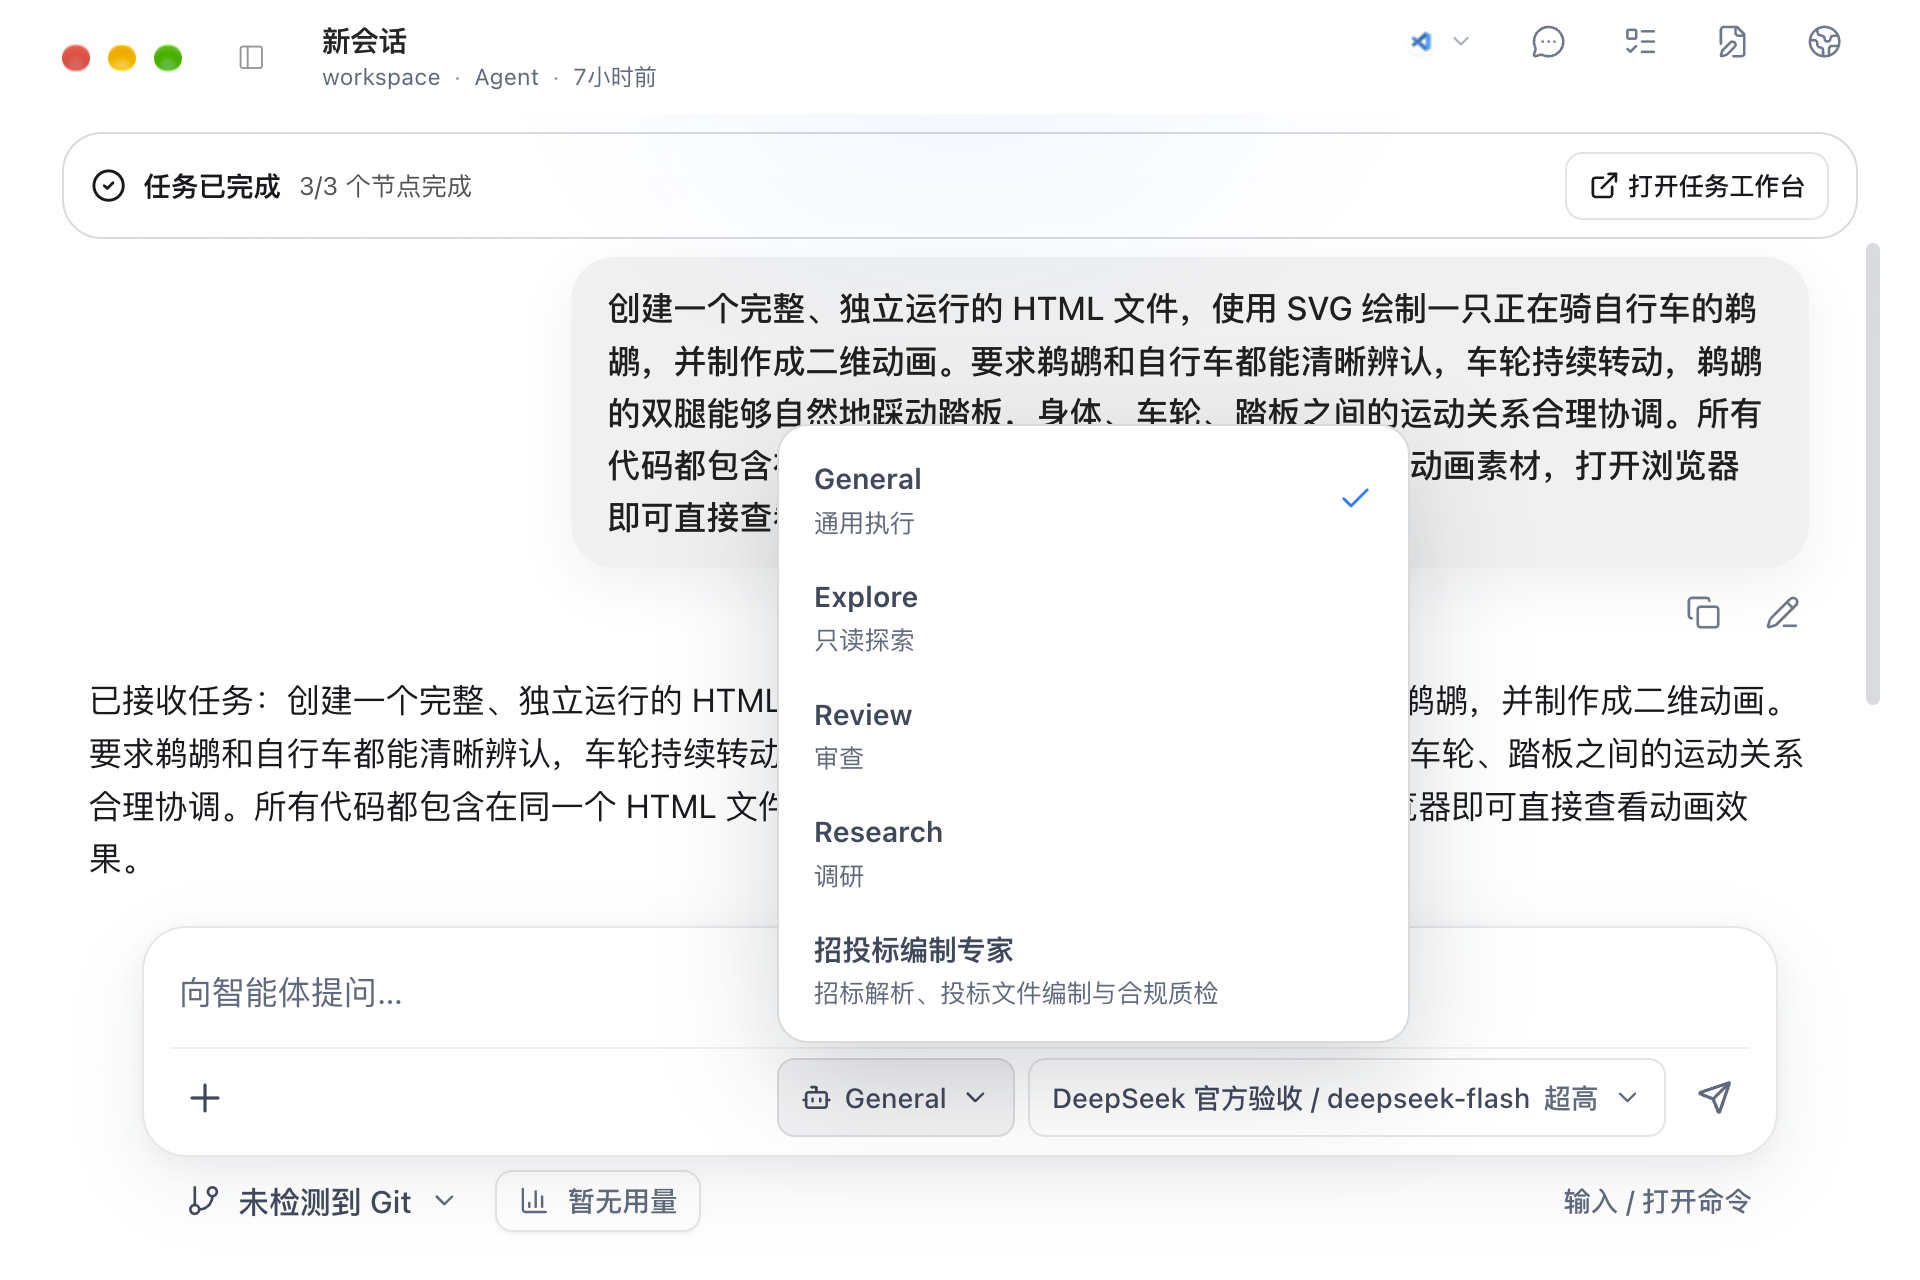
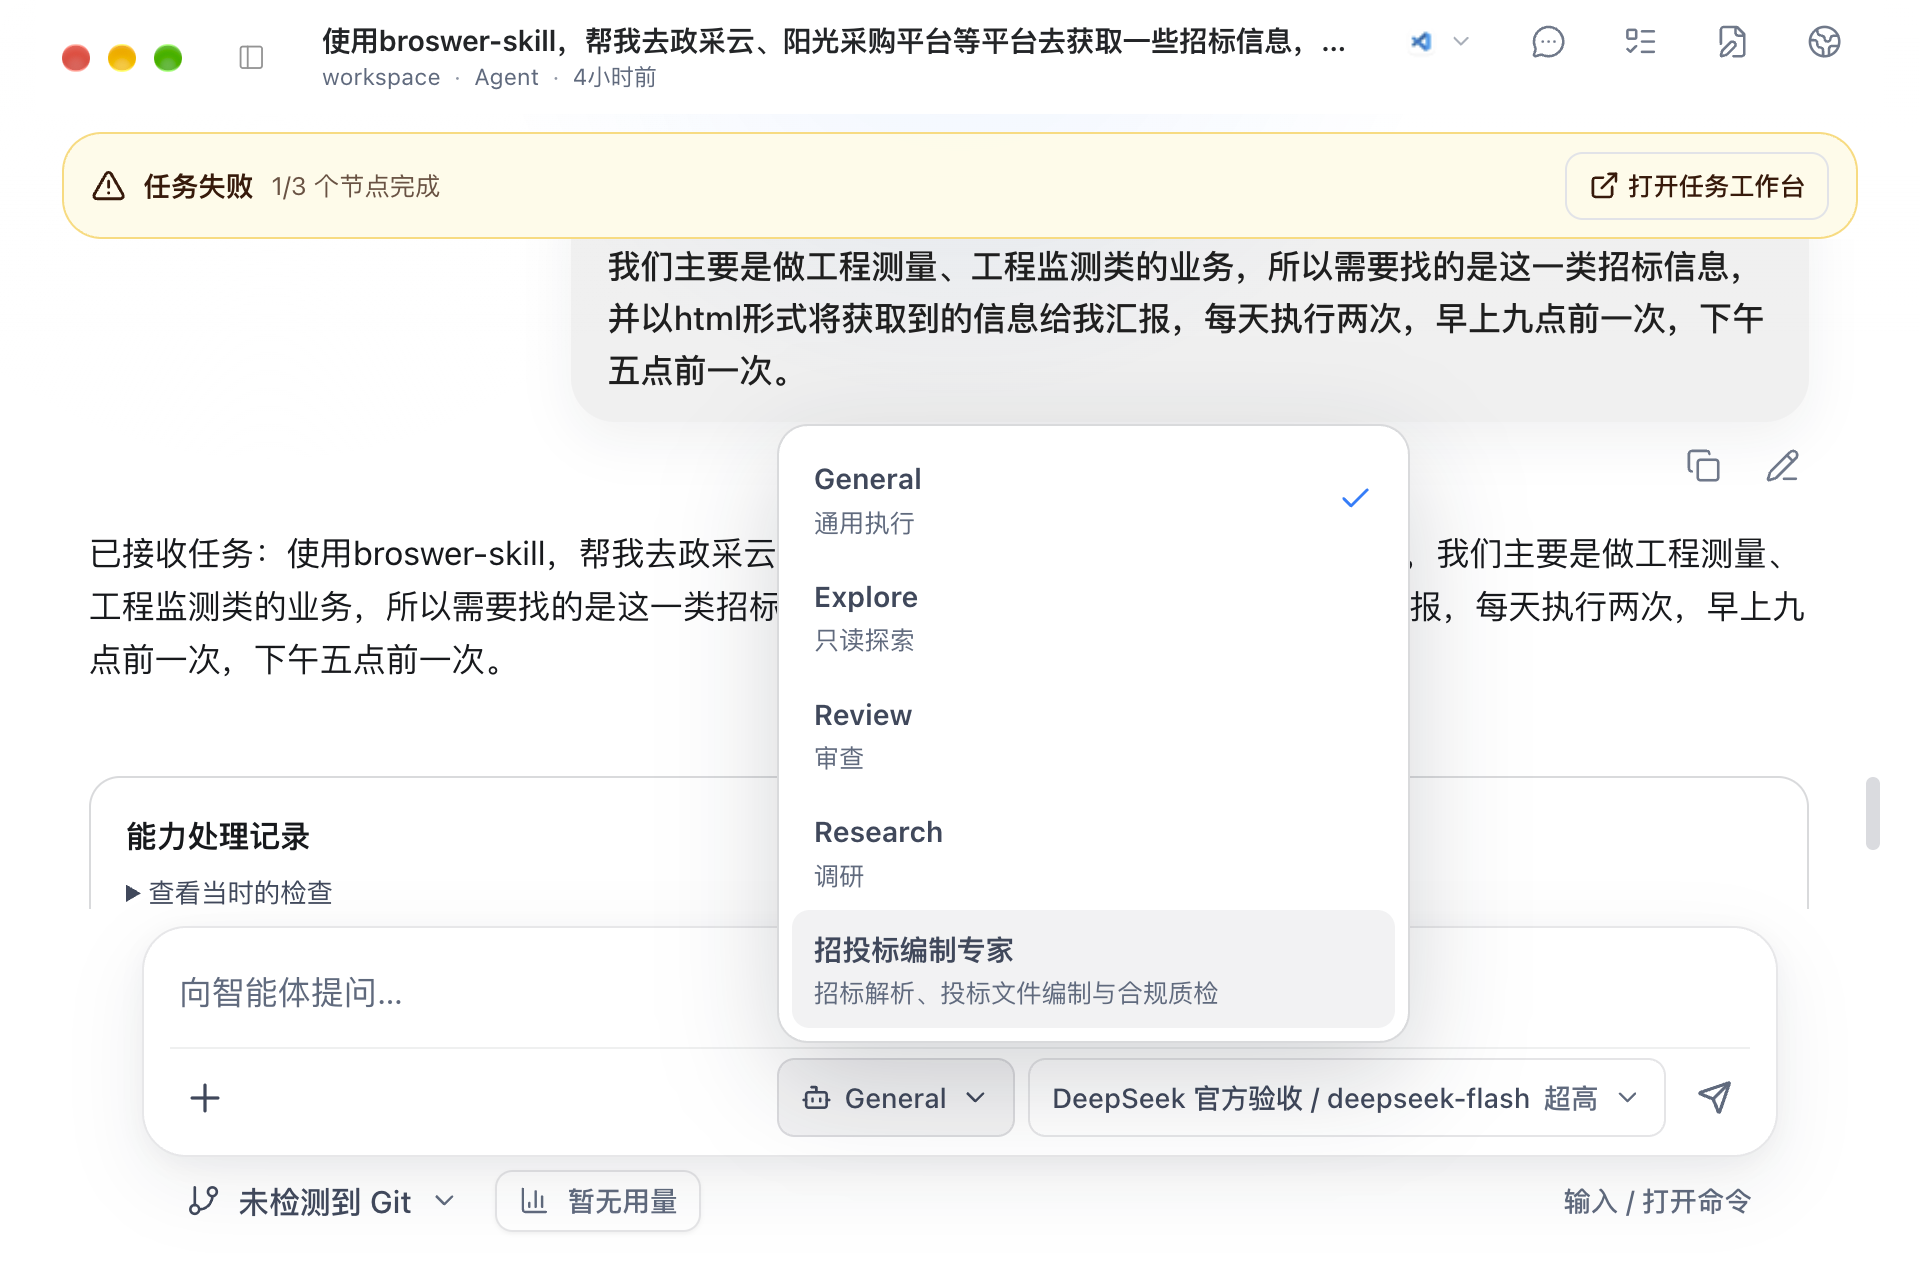
Document exact adaptive UI acceptance and refresh Chinese screenshots

diff --git a/docs/qa/general-execution-delivery-2026-11-13.md b/docs/qa/general-execution-delivery-2026-11-13.md
@@ -709,3 +709,33 @@ Windows 同构建安装器 SHA256 `1335926e0e5c5ffb6ff091dd1889a52415e783c9938e6
 针对这张真实实拍，DOM 回归先复现内部英文重复、已执行状态误报和工作区遗漏，再通过 Renderer 修正。只在同一当前任务、pending capability、可信 `execution_grant_expired` 错误码与原等待原因匹配时显示简短中文摘要；卡片保留具体说明、已有成果和记录、原任务详情与必要授权入口。原始原因和错误码仍在主动展开的诊断中，不改持久记录。旧卡片、其它任务、已处理待办、不同原因和结果未知均不借此掩盖真实阻断。
 
 卡片使用对应 owner Task 的工作区，历史记录保留当时的快照；实际已开始节点、成果或执行证据使用中性受阻标题。仅有入队 Turn 或 attempt 计数不能证明执行。九文件 162 项聚焦、Web／Node 类型及相关 lint 通过；单次生产构建与 1,373 项 freshness 通过，2,438 个 authored production 文件在干净依赖树和提交目录逐字节相同。没有修改 Runtime、授权、预算、旧 UNKNOWN 或历史消息；此为源码验证，新的精确包仍须检查实际等待卡。
+
+### 7ffadca7 真实公共任务的一次普通继续：仍失败
+
+在界面阶段结束、活动为零后，仅通过普通 UI 继续同一个原任务一次。生产流程建立新的 Turn 和最多 15 分钟的 standing Grant，浏览器身份、两来源、原 Flow 版本、范围与共享预算保持；没有新建 Task、准备第二个目标或重新配置计划。随后由 Runtime 自然重试到第 8 次尝试，`attempt_budget_exhausted` 终止，仍余 113,597ms 执行预算；不是 Grant 到期或时长耗尽，也没有人为追加次数或预算。
+
[1 lines of base64/hex data omitted]
+
+最终活动为零，原 16 条 UNKNOWN 整行、其它任务、原 due／sourceRoot、计划及预算上限保留；新增 Task 和 UNKNOWN 均为零。49 份旧会话 JSONL 完全相同，本任务消息保留原始前缀；metadata 压缩后旧 Turn 和 Grant 内容相同。事件文件中旧非 usage 记录全部保留原顺序和内容，68 条旧费用账本仍在，但一条旧 usage 快照不再存在。它与已有聚合规则一致，缺少明确压缩回执，确切触发首因未确证；不声称 52 份文件原始字节全部未变，也未回滚或修写数据。本轮新增费用记录为 1.78737213 USD。
+
+**真实公共采集仍未闭环，不公开发布。** 浏览器会话没有明确停止记录的残项继续保留，不以 Task 空闲冒充浏览器已停止，不在授权之外运行 CLI 清理。当前可交互的到期能力卡为零；下一精确包可检查真实历史卡和布局，当前到期摘要仍以本次有意义 DOM 回归为证据，不造新任务冒充现网场景。
+
+## 98e94321 修正版：CI 与 Windows 实包
+
+上述最小 Renderer 修正对应源码 `98e94321de313f70ce5106e13ff45fb5c22545a4`。[push Quality](https://github.com/railwise-cn/railwise-ai/actions/runs/43770538622) 和 [PR Quality](https://github.com/railwise-cn/railwise-ai/actions/runs/43770544664) 六个 job 均成功；两份官方日志均为 Desktop 4,800 通过／17 跳过，Runtime 4,921 通过／24 跳过。没有放宽旧来源、权限或 30 秒边界。
+
+[唯一构建 43770685662](https://github.com/railwise-cn/railwise-ai/actions/runs/43770685662) 的 Windows 包、驱动及完整回放均来自同一 `98e94321`，没有源码差异。[完整回放 43772384978](https://github.com/railwise-cn/railwise-ai/actions/runs/43772384978) 和严格验证通过：中文大小字号的四组菜单与窄窗导航正常，首次任务及独立实际到期任务完成来源、HTML、回读、预览及计划链路，42 次受控模型请求均为 HTTP 200，未知结果为零，正常退出后包不变。三张该包原生截图完成 AI 视觉检查，原始历史及技术详情折叠，未将已执行任务错称为未执行；不作为人类或专业审定。
+
[1 lines of base64/hex data omitted]
+
+### 98e94321 macOS、界面复查与升级
+
[1 lines of base64/hex data omitted]
+
+在真实历史到期卡中，默认只显示中性记录；实际展开后显示中文原因、权限类型和对应原任务工作区，英文原始错误仅在再主动展开诊断后出现。960×640／大字号 1.1 的 General 定位、End／Escape、原 Agent 勾选和焦点返回通过。1280×840／小字号 0.9 的单一任务列表、已有完成 SVG、三步完成及真实预览正常。当前可交互的到期卡仍为零，因此**没有宣称当前到期摘要分支完成实包场景验收**，其逻辑由前述 DOM 回归覆盖。没有创建测试任务、继续业务、调整预算或自动确认授权。
+
+这次界面阶段的 13 项连续性检查通过，全部非易变表、Task／attempt／预算／Flow／Grant、原 16 UNKNOWN 整行及本次业务后基线的 52 个 JSONL 原始字节相同。字体恢复小字号，revision 12 → 14；其它设置不变，配置仅允许精确包路径、检查时间和同组根路径顺序变化。两张未编辑的原生无光标中文图已逐图核看（AI），中英文 README 与逐图来源清单同步为本次 `98e94321`，旧测量、技能及帮助图保留原源码身份。
+
[1 lines of base64/hex data omitted]
+
+**本轮自适应界面已交付可审阅精确候选包；原 Harness 全量计划仍未关闭，真实政采云采集与完整报告核验失败继续保留。** 后续仅更新本文和截图，不因验收文档改动重新生成同一产品代码的安装包。

diff --git a/README.en.md b/README.en.md
@@ -34,6 +34,7 @@ Published installers remain available from GitHub Releases and the official upda
 - **HTML deliverables** register actual generated files as task results and distinguish drafts from versions with verified sources. The first previewable HTML file in the active conversation opens in the right-hand preview. Reopen it from the task center or result card to inspect the content, field evidence and saved location.
 - **File permissions** allow new reports to use application-managed task storage in a read-only workspace. Requests to write to a specified directory require review of the target path and permission scope.
 - **Task workspace** keeps the task list and status filters in the left sidebar, the current task in the center, and an optional result preview on the right. Local HTML/SVG work is checked as a file deliverable, with separate execution, verification and delivery progress.
+- **Adaptive layout** switches side panels between docking and drawers using the available window space and UI text size, while keeping the result page open. General, model and skill menus stay anchored within the available space and scroll long lists internally.
 - **Permission recovery** preserves the original task and history when a temporary grant expires or its scope changes. Repair the permission card, then continue separately; permission failures do not trigger automatic retries.
 - **Daily schedules** support multiple times and an explicit timezone. For delivery deadlines, review the earlier start time. Recurring browser interactions use reviewed, finite scopes and recheck the site, element, input and browser binding on subsequent runs.
 - **Conversation display** focuses on concise progress, pending actions and results. Tool parameters and long output are available in expandable work details.
@@ -44,7 +45,7 @@ After one explicit task-scope review, permitted public searches, filters and pag
 
 ## 0.5.7 Chinese interface
 
-The task overview and compact-window menu were captured on November 16, 2026 from the exact macOS 0.5.7 candidate (source `64c5a5f0`). The survey, skills and help images retain their November 15 source `84ae4a85`. All use the Chinese light interface and original native PNG bytes, with no computer-use cursor. The task image is 2560 × 1680; the other three are 2672 × 1462. [Capture provenance, dimensions and hashes](./docs/images/v0.5.7/capture.json) · [General menu at 960 × 640 with large UI text](./docs/images/v0.5.7/adaptive-agent-menu-zh-light.png)
+The task overview and compact-window menu were captured on November 16, 2026 from the exact macOS 0.5.7 candidate (source `98e94321`). The survey, skills and help images retain their November 15 source `84ae4a85`. All use the Chinese light interface and original native PNG bytes, with no computer-use cursor. The task image is 2560 × 1680; the other three are 2672 × 1462. [Capture provenance, dimensions and hashes](./docs/images/v0.5.7/capture.json) · [General menu at 960 × 640 with large UI text](./docs/images/v0.5.7/adaptive-agent-menu-zh-light.png)
 
 Survey uses a local copy of real COSA IN2 planar-network observations for import checks only. The coordinate and height datums remain unconfirmed, and no adjustment was performed. The datum and results await engineering review.
 

diff --git a/docs/desktop-adaptive-layout.md b/docs/desktop-adaptive-layout.md
@@ -59,3 +59,5 @@
 后续生产源码 `7ffadca7` 的两条 Quality 共六个 job 通过，Desktop 4,785 项、Runtime 4,921 项通过，分别跳过 17／24 项。该源码的 Windows 精确安装包和驱动来源一致，完整回放通过 1024×728／小字号、960×672／大字号的 General 与模型定位、键盘焦点和 Escape，以及窄窗侧栏抽屉。实际首次任务与独立到期任务均生成 HTML 并完成核验、自动预览；这部分使用受控页面和模型协议，不能视为真实公共采购验收。原 Windows 包仍未签名，旧首次失败证据保留。详细包身份与测试范围见[完整验收记录](./qa/general-execution-delivery-2026-11-13.md)。
 
 同一 `7ffadca7` macOS 包已实际检查 960×640／大字号的 General 和长技能菜单、1280×840／小字号的等待节点、Markdown 和已有完成 SVG 预览，定位及滚动通过。但实际等待卡仍重复内部英文、误称已有进展的任务“尚未执行”、漏用任务工作区；这处状态投影需要修正并进入下一精确包，不能用菜单通过代替整个界面验收。
+
+该状态投影修正已进入 `98e94321` 精确包，中文 macOS 实查了历史到期卡、原任务工作区和折叠诊断，以及 960×640／大字号 General 与 1280×840／小字号任务及 SVG 预览。当前没有待处理的到期卡，实时摘要的该分支保留 DOM 回归范围，不造任务冒充实测。Windows 同源码实包的四组菜单及窄窗导航、两条 Quality、同包正式 0.5.6 升级均通过。中英文 README 的两张自适应原生图及逐图来源已更新；本轮界面之外的真实采购采集仍未通过，不据此关闭整个 Harness 计划或公开发布。
